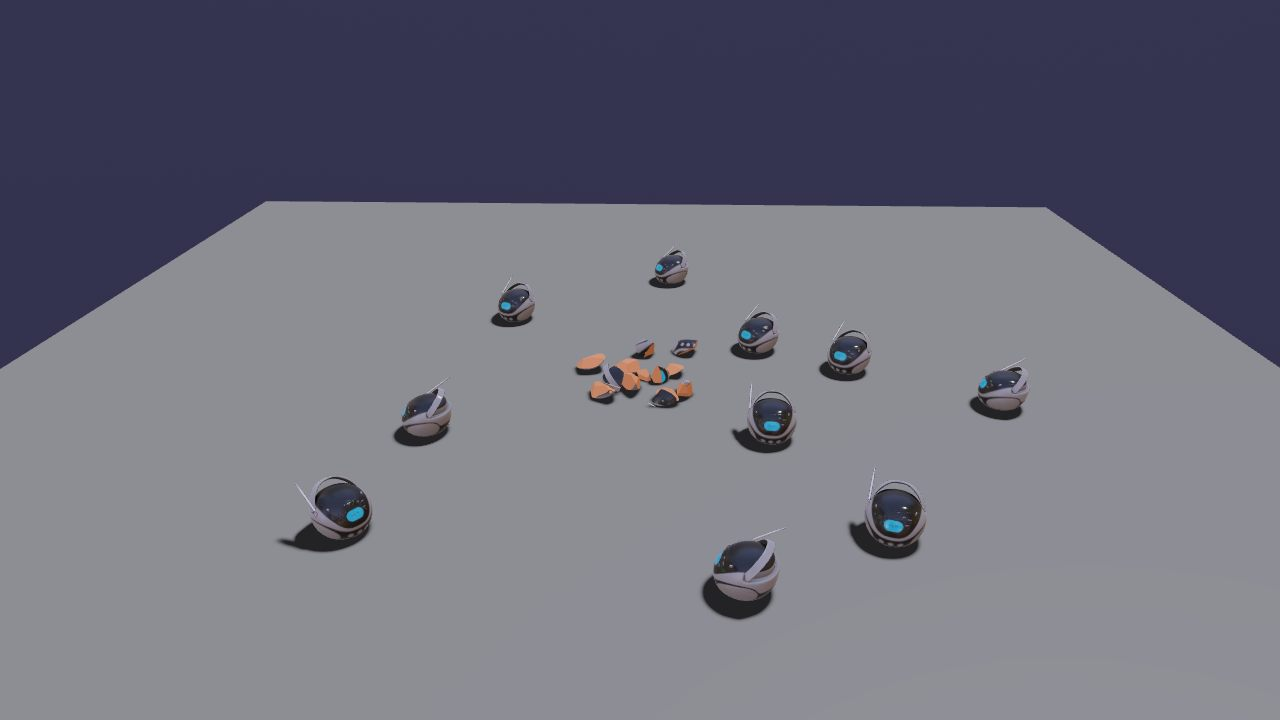
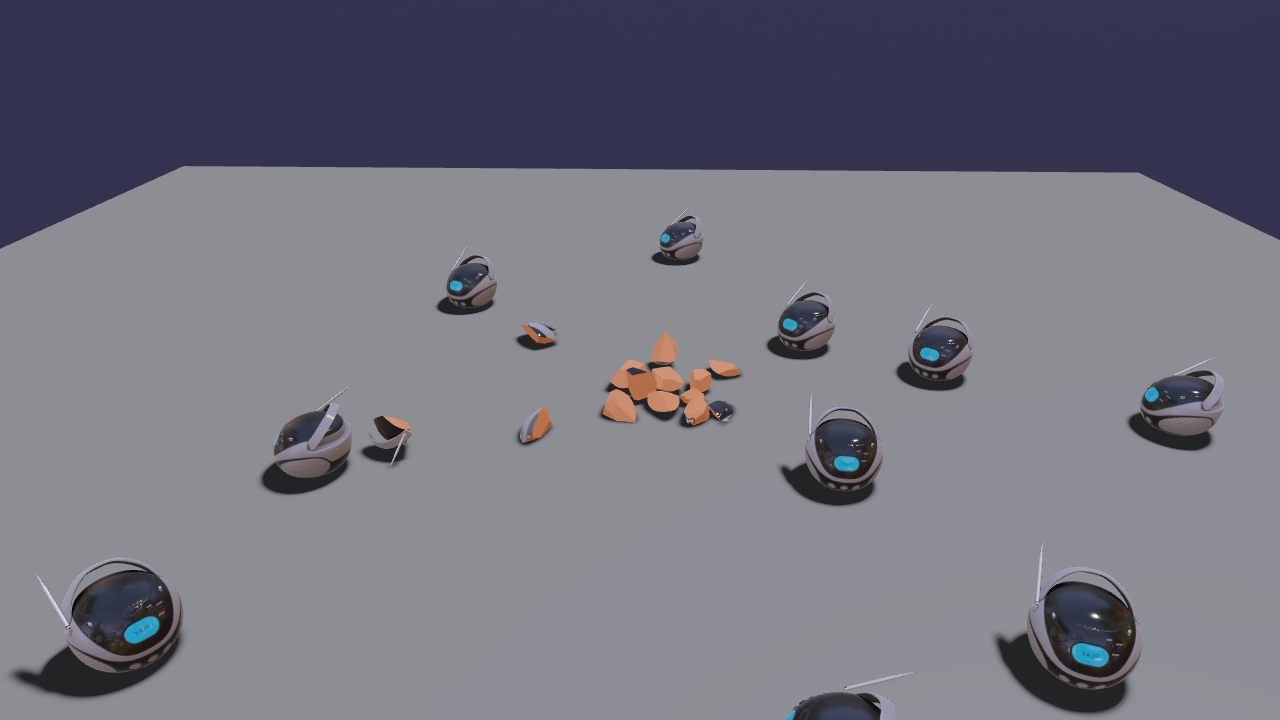
feat(demos): tighten break-meshes camera framing
Pull the arc-rotate camera in (radius span*19 -> span*13) so the scattered
boomboxes reach the screen borders and fill the frame. Refresh the thumbnail
to match.

Copilot-Session: dcb8a1f1-f202-4565-a48e-e49aac2cc308

diff --git a/lab/lite/src/demos/break-meshes.ts b/lab/lite/src/demos/break-meshes.ts
@@ -264,7 +264,7 @@ async function main(): Promise<void> {
     cam.target.z = cz;
     cam.alpha = 1.6;
     cam.beta = 1.12;
-    cam.radius = span * 19;
+    cam.radius = span * 13;
     cam.nearPlane = span * 0.02;
     cam.farPlane = span * 4000;
     attachControl(cam, canvas, scene);
